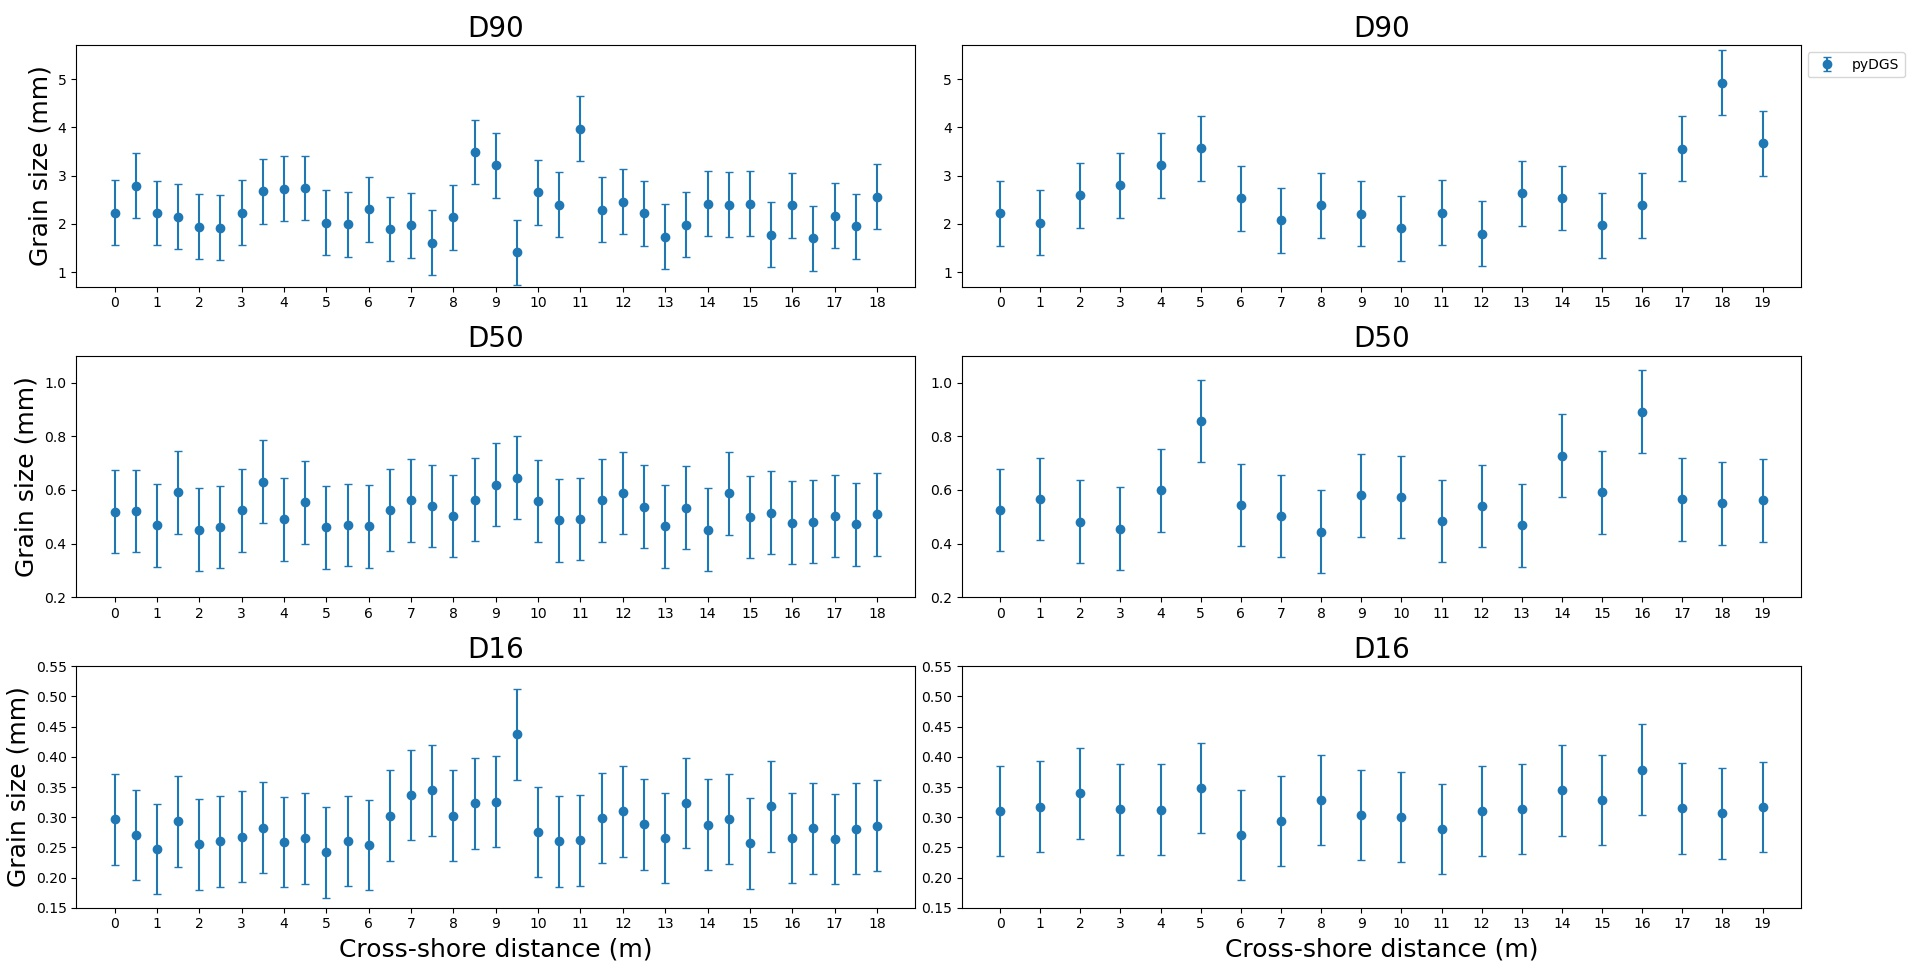
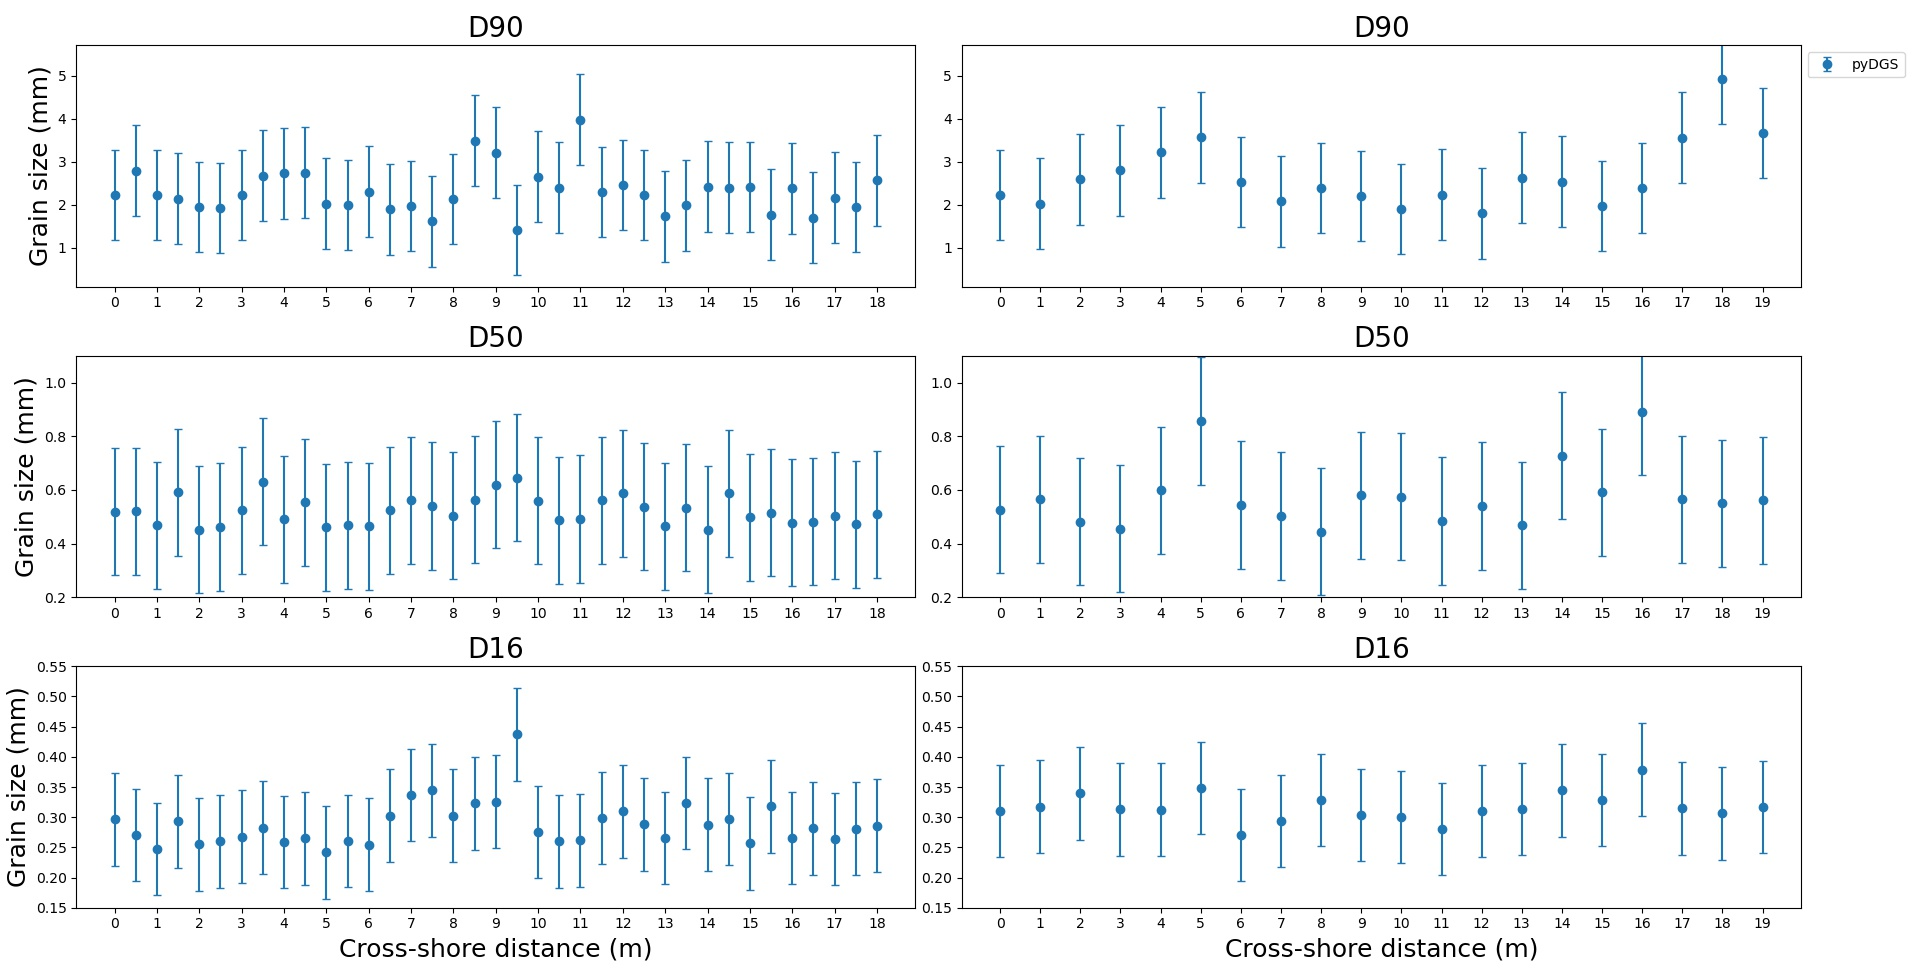
Update: new data

diff --git a/Plot/plot_highresLine.py b/Plot/plot_highresLine.py
@@ -35,56 +35,56 @@ plt.xlim([-0.5,8.5])
 plt.show()
 
 
-data = np.array(pd.read_csv('/home/casper/Documents/Python/pyDGS-GUI/Output data/26_10_22/Mobile/Statistics/Statistics_Test_2.csv'))
-data = np.array(pd.read_csv('/home/casper/Documents/Python/pyDGS-GUI/Output data/01_12_22_Egmond/Statistics/Statistics_Line_2.csv'))
-plt.subplot(3,1,1)
-cross_shore = np.arange(0, len(data))
-plt.scatter( cross_shore, data[:, 9], label='pyDGS')# yerr=0.672, fmt="o", capsize=3, )
-plt.legend(bbox_to_anchor=(1,1), loc="upper left")
-plt.ylabel('Grain size (mm)', fontsize=18)
+# data = np.array(pd.read_csv('/home/casper/Documents/Python/pyDGS-GUI/Output data/26_10_22/Mobile/Statistics/Statistics_Test_2.csv'))
+# # data = np.array(pd.read_csv('/home/casper/Documents/Python/pyDGS-GUI/Output data/01_12_22_Egmond/Statistics/Statistics_Line_2.csv'))
+# plt.subplot(3,2,1)
+# cross_shore = np.arange(0, len(data))
+# plt.errorbar( cross_shore, data[:, 9], yerr=1.051081833, fmt="o", capsize=3)#, label='pyDGS')
+# # plt.legend(bbox_to_anchor=(1,1), loc="upper left")
+# plt.ylabel('Grain size (mm)', fontsize=18)
 # plt.xticks(cross_shore[::2], ['0', '1', '2', '3', '4', '5', '6', '7', '8', '9', '10', '11', '12', '13', '14', '15', '16', '17', '18'])
-plt.title('D90', fontsize=20)
-# plt.ylim([0.70, 5.70])
-
-plt.subplot(3,1,2)
-plt.scatter( cross_shore, data[:, 6])#, yerr=0.154, fmt="o", capsize=3)
-plt.ylabel('Grain size (mm)', fontsize=18)
-# plt.xticks(cross_shore[::2], ['0', '1', '2', '3', '4', '5', '6', '7', '8', '9', '10', '11', '12', '13', '14', '15', '16', '17', '18'])
-plt.title('D50', fontsize=20)
-# plt.ylim([0.2, 1.1])
-
-plt.subplot(3,1,3)
-plt.scatter(cross_shore, data[:, 3])#, yerr=0.0750, fmt="o", capsize=3)
-# plt.xticks(cross_shore[::2], ['0', '1', '2', '3', '4', '5', '6', '7', '8', '9', '10', '11', '12', '13', '14', '15', '16', '17', '18'])
-plt.xlabel('Cross-shore distance (m)', fontsize=18)
-plt.ylabel('Grain size (mm)', fontsize=18)
-plt.title('D16', fontsize=20)
-# plt.ylim([0.15, 0.55])
-plt.show()
-
-
-# data = np.array(pd.read_csv('/home/casper/Documents/Python/pyDGS-GUI/Output data/26_10_22/Mobile/Statistics/Statistics_Test_4.csv'))
-
-# plt.subplot(3,2,2)
-# plt.scatter(np.arange(0, len(data)), data[:, 9], label='pyDGS')#, yerr=0.672, fmt="o", capsize=3
-# plt.legend(bbox_to_anchor=(1,1), loc="upper left")
-# plt.xticks(np.arange(0, len(data)), ['0', '1', '2', '3', '4', '5', '6', '7', '8', '9', '10', '11', '12', '13', '14', '15', '16', '17', '18', '19'])
-# # plt.ylabel('Grain size (mm)', fontsize=18)
 # plt.title('D90', fontsize=20)
-# plt.ylim([0.70, 5.70])
+# plt.ylim([0.10, 5.70])
 
-# plt.subplot(3,2,4)
-# plt.scatter( np.arange(0, len(data)), data[:, 6])#, yerr=0.154, fmt="o", capsize=3)
-# # plt.ylabel('Grain size (mm)', fontsize=18)
-# plt.xticks(np.arange(0, len(data)), ['0', '1', '2', '3', '4', '5', '6', '7', '8', '9', '10', '11', '12', '13', '14', '15', '16', '17', '18', '19'])
+# plt.subplot(3,2,3)
+# plt.errorbar( cross_shore, data[:, 6],  yerr=0.237032128, fmt="o", capsize=3)
+# plt.ylabel('Grain size (mm)', fontsize=18)
+# plt.xticks(cross_shore[::2], ['0', '1', '2', '3', '4', '5', '6', '7', '8', '9', '10', '11', '12', '13', '14', '15', '16', '17', '18'])
 # plt.title('D50', fontsize=20)
 # plt.ylim([0.2, 1.1])
 
-# plt.subplot(3,2,6)
-# plt.scatter( np.arange(0, len(data)), data[:, 3])#, yerr=0.0750, fmt="o", capsize=3)
-# plt.xticks(np.arange(0, len(data)), ['0', '1', '2', '3', '4', '5', '6', '7', '8', '9', '10', '11', '12', '13', '14', '15', '16', '17', '18', '19'])
+# plt.subplot(3,2,5)
+# plt.errorbar(cross_shore, data[:, 3], yerr=0.076684919, fmt="o", capsize=3)
+# plt.xticks(cross_shore[::2], ['0', '1', '2', '3', '4', '5', '6', '7', '8', '9', '10', '11', '12', '13', '14', '15', '16', '17', '18'])
 # plt.xlabel('Cross-shore distance (m)', fontsize=18)
-# # plt.ylabel('Grain size (mm)', fontsize=18)
+# plt.ylabel('Grain size (mm)', fontsize=18)
 # plt.title('D16', fontsize=20)
 # plt.ylim([0.15, 0.55])
-# plt.show()
+# # plt.show()
+
+
+data = np.array(pd.read_csv('/home/casper/Documents/Python/pyDGS-GUI/Output data/26_10_22/Mobile/Statistics/Statistics_Test_4.csv'))
+
+plt.subplot(3,1,1)
+plt.errorbar(np.arange(0, len(data)), data[:, 9], yerr=1.051081833, fmt="o", capsize=3, label='pyDGS')
+plt.legend(bbox_to_anchor=(1,1), loc="upper left")
+plt.xticks(np.arange(0, len(data)), ['0', '1', '2', '3', '4', '5', '6', '7', '8', '9', '10', '11', '12', '13', '14', '15', '16', '17', '18', '19'])
+plt.ylabel('Grain size (mm)', fontsize=18)
+plt.title('D90', fontsize=20)
+plt.ylim([0.10, 5.70])
+
+plt.subplot(3,1,2)
+plt.errorbar( np.arange(0, len(data)), data[:, 6], yerr=0.237032128, fmt="o", capsize=3)
+plt.ylabel('Grain size (mm)', fontsize=18)
+plt.xticks(np.arange(0, len(data)), ['0', '1', '2', '3', '4', '5', '6', '7', '8', '9', '10', '11', '12', '13', '14', '15', '16', '17', '18', '19'])
+plt.title('D50', fontsize=20)
+plt.ylim([0.2, 1.1])
+
+plt.subplot(3,1,3)
+plt.errorbar( np.arange(0, len(data)), data[:, 3], yerr=0.076684919, fmt="o", capsize=3)
+plt.xticks(np.arange(0, len(data)), ['0', '1', '2', '3', '4', '5', '6', '7', '8', '9', '10', '11', '12', '13', '14', '15', '16', '17', '18', '19'])
+plt.xlabel('Cross-shore distance (m)', fontsize=18)
+# plt.ylabel('Grain size (mm)', fontsize=18)
+plt.title('D16', fontsize=20)
+plt.ylim([0.15, 0.55])
+plt.show()

diff --git a/main.py b/main.py
@@ -86,7 +86,7 @@ class GUI(object):
         self.CoinTypeLabel = ttk.Label(tab_1_left_frame_2, text='Coin type:')
         self.CoinTypeLabel.grid(row=0, column=0, sticky="nsew")
         self.coin_bank = {"Select Coin Type": 0,"2 Euro": '2_Euro', "1 Euro": '1_Euro', "50 Cent": '50_Cent',
-                          "20 Cent": '20_Cent', "10 Cent": '10_Cent', "5 Cent": '5_Cent'}
+                          "20 Cent": '20_Cent', "10 Cent": '10_Cent', "5 Cent": '5_Cent', "US Quarter": 'US_Quarter'}
         self.CoinVar = StringVar()
         self.CoinType = ttk.OptionMenu(tab_1_left_frame_2, self.CoinVar,  *self.coin_bank, command = lambda x: self.Input.GetCoinType(self.coin_bank, self.CoinVar))
         self.CoinType.grid(row=1, column=0, pady=20, sticky="nsew")

diff --git a/Classes/StoreData.py b/Classes/StoreData.py
@@ -7,11 +7,11 @@ class Store_Img_data():
         
     def Scale_Img(self, img_path, r_final, coin_type):
         coin_vault = {"2_Euro": 25.75, "1_Euro": 23.25, "50_Cent": 24.25,
-                    "20_Cent": 22.25, "10_Cent": 19.75, "5_Cent": 21.25}
+                    "20_Cent": 22.25, "10_Cent": 19.75, "5_Cent": 21.25, "US_Quarter":24.257}
 
         dia_coin_pix = r_final * 2 
         coin_dia_mm = coin_vault[coin_type]
-        size_pixel = coin_dia_mm / dia_coin_pix # pixel size in mm
+        size_pixel = coin_dia_mm / dia_coin_pix # pixel size in mm  
 
         image = cv2.imread(img_path, cv2.IMREAD_COLOR) # Read the image 
         image = cv2.cvtColor(image, cv2.COLOR_BGR2RGB) 
